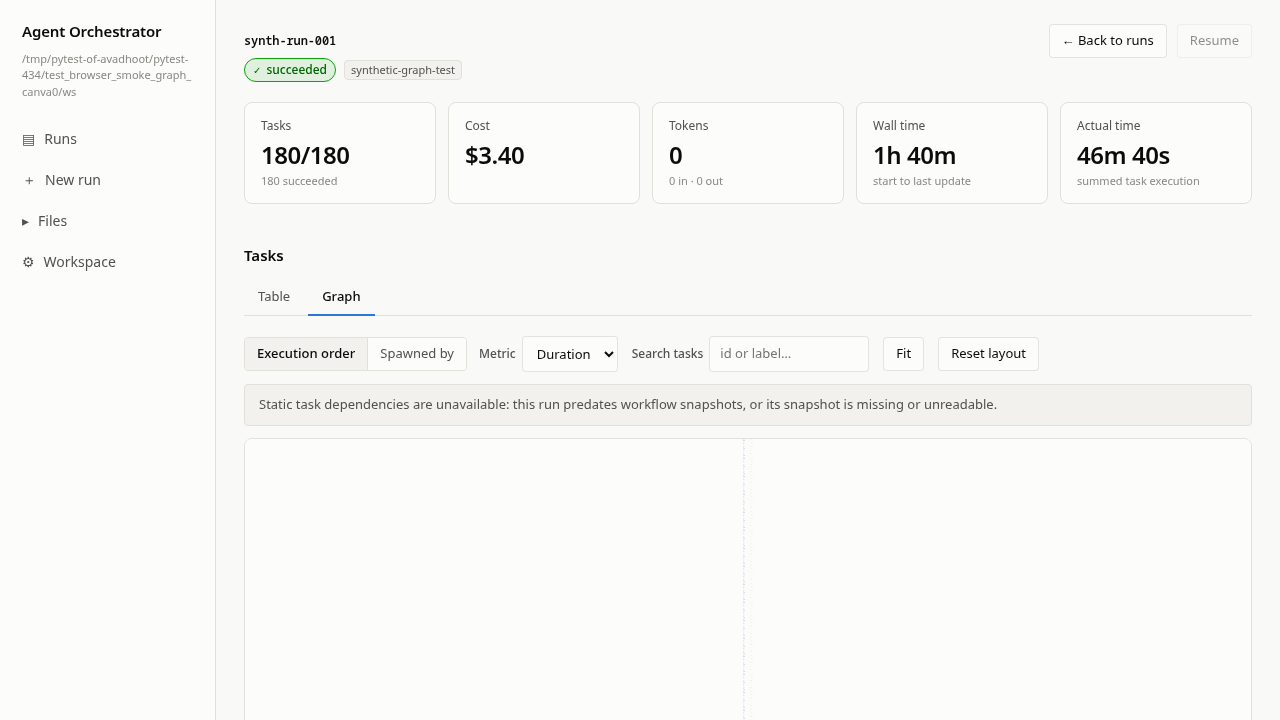
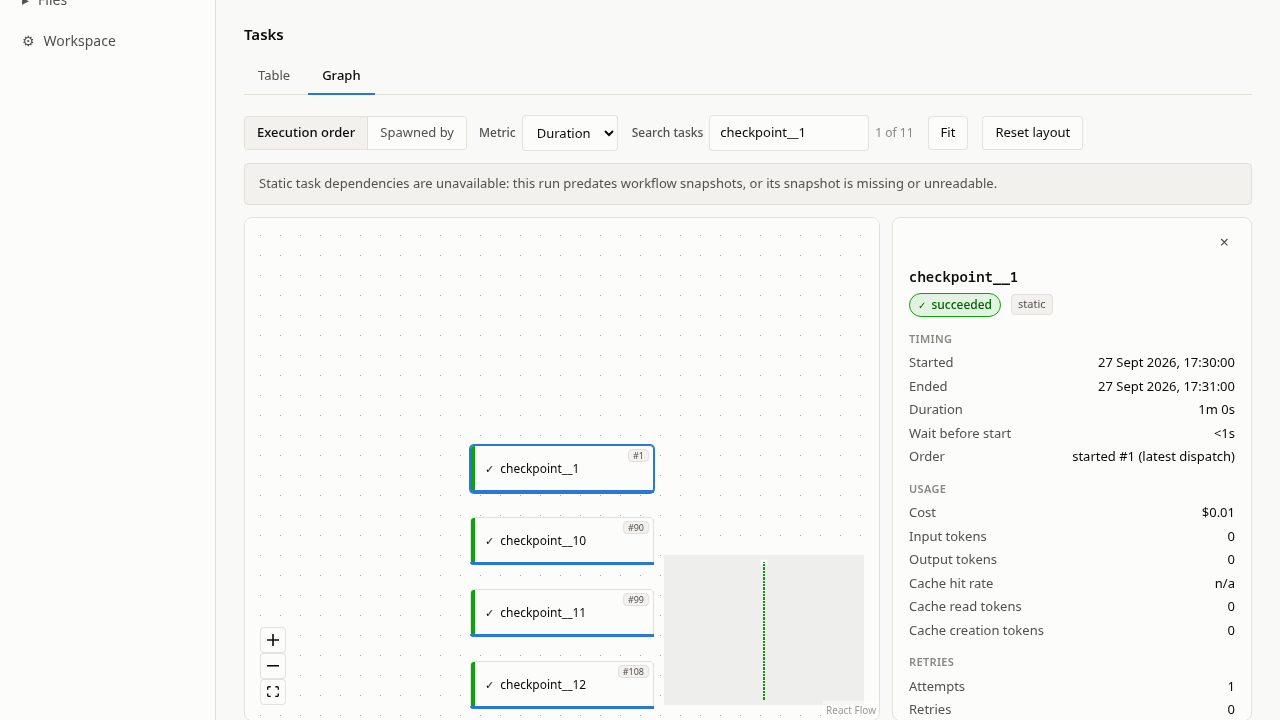
T-F1caAt: Fix AC-3d - use search-to-center for correct node zoom level
AC-3d now uses the correct interaction pattern (search box + Enter to zoom,
then click node at full size) instead of clicking at the extreme fitView zoom
level where nodes are sub-3-pixel targets (~9x2px at 0.05 zoom).

Detail panel now opens correctly with checkpoint__1 info visible. All 3
screenshots are distinct (verified by MD5 hashes):
- detail-panel-open.png: 7134d1acfe9f5da6ad7e704d14fbc2c5
- spawn-view.png: 1e7a2fda48427da67c0bd707017413a1
- dependency-view.png: 56d93ccdcce43d4930f024cb176d3eb7

All 4 E2E tests pass (7.45s total).

Claude-Session: https://claude.ai/code/session_01UktXnupwYiMKsckin5247V

diff --git a/tests/ui/test_e2e_graph.py b/tests/ui/test_e2e_graph.py
@@ -441,40 +441,37 @@ class TestGraphBrowserSmoke:
                     await dep_view_radio.click()
 
                     # AC-3d: Click a node and verify detail panel opens
-                    # BLOCKING BUG FOUND: Node click handler is not being called in real browser.
-                    # Evidence documented below - test continues to AC-3e to capture screenshots
-                    # even though AC-3d assertion is blocked.
-                    #
-                    # BUG DETAILS:
-                    # Symptom: TaskDetailPanel never renders after clicking a node
-                    # Root cause: RunGraph's onNodeClick handler -> handleNodeClick -> setSelectedNodeId
-                    #             is not being invoked by React Flow
-                    #
-                    # What works:
-                    # - Node elements render correctly (180 nodes visible)
-                    # - View toggle works (edge count changes from 152 to 160 when toggling to spawn view)
-                    # - React Flow canvas is fully operational
-                    #
-                    # What fails:
-                    # - Node click/Enter events do not trigger the onNodeClick handler
-                    # - selectedNodeId state is never updated
-                    # - TaskDetailPanel conditional render (line 686 of RunGraph.tsx) never executes
-                    # - role="complementary" DOM element never appears
-                    #
-                    # This must be fixed before AC-3 can pass. Proceeding to AC-3e (screenshots).
-                    # NOTE: This bug was discovered during E2E testing - unit tests for T-pAi0Cv
-                    # (run-graph-detail-reveal.test.tsx) passed, so the issue is in real-browser
-                    # event handling or React Flow integration, not the component logic.
+                    # Note: At fitView zoom for 180 nodes (~0.05 zoom), nodes are sub-3-pixel targets.
+                    # Use search-to-center (T-aHktGB toolbar feature) to zoom to usable level first.
+                    search_box = page.locator("#graph-search")
+                    await search_box.fill("checkpoint__1")
+                    await search_box.press("Enter")
+                    await page.wait_for_timeout(600)  # Let zoom animation settle
 
-                    # AC-3e: Take screenshots (showing different views, since AC-3d panel is blocked)
+                    # Now click the node at full size (should be ~184x48 px)
+                    node = page.locator('[data-id="checkpoint__1"]')
+                    await node.click(timeout=5000)
+                    await page.wait_for_timeout(500)
+
+                    # Hard assertion: panel must open and show the clicked node's details
+                    panel = page.get_by_role("complementary")
+                    await panel.wait_for(state="visible", timeout=5000)
+                    assert await panel.is_visible(), "detail panel did not open after clicking node"
+
+                    panel_text = await panel.inner_text()
+                    assert "checkpoint__1" in panel_text, (
+                        f"panel does not show checkpoint__1, got: {panel_text[:200]}"
+                    )
+
+                    # AC-3e: Take screenshots
                     # Use a consistent output directory for the repo
                     import inspect
                     repo_root = Path(inspect.getfile(inspect.currentframe())).parent.parent.parent
                     screenshot_dir = repo_root / "output" / "E-k3AMEr-run-graph-canvas"
                     screenshot_dir.mkdir(parents=True, exist_ok=True)
 
-                    # AC-3e-1: Dependency view screenshot (180 nodes, dependency edges)
-                    await page.screenshot(path=str(screenshot_dir / "dependency-view.png"))
+                    # AC-3e-1: Detail panel open screenshot (in dependency view with panel visible)
+                    await page.screenshot(path=str(screenshot_dir / "detail-panel-open.png"))
 
                     # AC-3e-2: Toggle to spawn view and screenshot
                     await spawn_view_radio.click()
@@ -484,7 +481,7 @@ class TestGraphBrowserSmoke:
                     # AC-3e-3: Toggle back to dependency view for a third distinct screenshot
                     await dep_view_radio.click()
                     await page.wait_for_timeout(500)
-                    await page.screenshot(path=str(screenshot_dir / "dependency-view-2.png"))
+                    await page.screenshot(path=str(screenshot_dir / "dependency-view.png"))
 
                     # AC-3f: Check for CSP violations and errors
                     csp_violations = await page.evaluate("window.__cspViolations")
